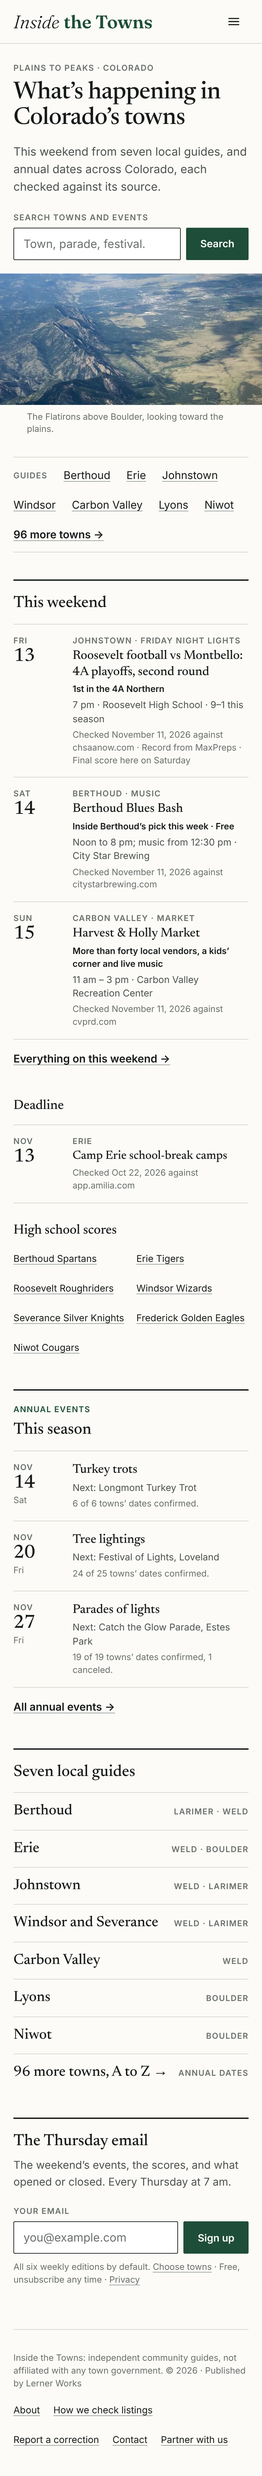
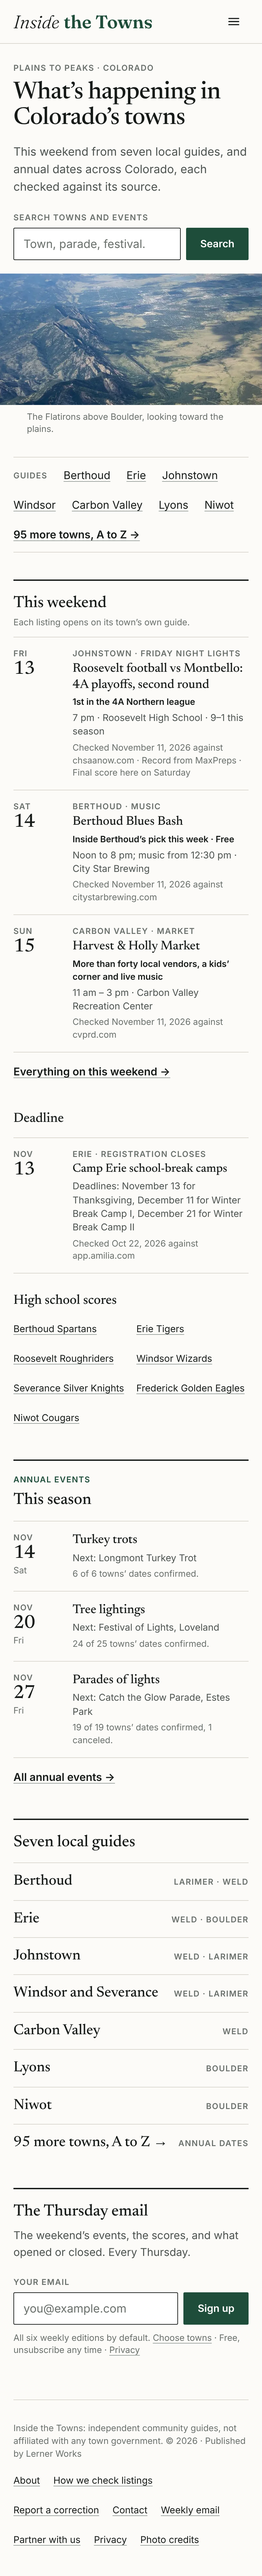
Docs and a clock-proof sports test for the audits' decisions
The decisions on the audits' six open items in DECISIONS.md and the rules
in HOW-IT-WORKS.md; the screenshots retaken. test/sports.test.ts reads the
postseason as of the audit's day: with the real clock it failed once the
volleyball openers had passed (it failed on main too).

Claude-Session: https://claude.ai/code/session_01EAS8nXyC6Dbp69gVZ5SYjU

diff --git a/test/sports.test.ts b/test/sports.test.ts
@@ -1000,7 +1000,10 @@ test('what CHSAA settles is applied over MaxPreps: the volleyball state openers 
   const schoolOf = (town: string) => schoolSportsFor(town, town === 'windsor' ? 'windsor-high' : undefined)!;
   const read = (town: string) => JSON.parse(readFileSync(fileOf(town), 'utf8')) as SportsData;
   const files = Object.fromEntries(['berthoud', 'niwot', 'windsor'].map((town) => [`/${fileOf(town)}`, read(town)]));
-  const volleyball = (town: string) => sportsDataFor(schoolOf(town), files)!.sports.find((t) => t.key === 'volleyball')!;
+  // Read as of the audit (9 November 2026): the postseason rows drop off once their day has passed, so on the
+  // day after the openers this test failed with the real clock (13 November 2026).
+  const asOf = new Date('2026-11-09T12:00:00-07:00');
+  const volleyball = (town: string) => sportsDataFor(schoolOf(town), files, asOf)!.sports.find((t) => t.key === 'volleyball')!;
 
   // MaxPreps had "at Eaton" and "vs Battle Mountain", and Niwot's match with Mead: all three are at
   // the Coliseum. (Golden's "vs Mullen" was the third until its guide was folded on 12 November 2026.)

diff --git a/DECISIONS.md b/DECISIONS.md
@@ -11189,3 +11189,41 @@ request for the owner.
 - **The hero photograph** is cut once to the 2:1 band the page shows
   (`front-range-flatirons-hero.jpg`), so no reader downloads the rest;
   the whole photograph stays the share image.
+
+## The audits' open items, decided, 13 November 2026 (night)
+
+The owner left the six open questions from the four audits to this
+session. Decided and done:
+
+- **The home's title and description** say what the page is: "Colorado
+  events this weekend, town by town | Inside the Towns", and this weekend's
+  events, the seasons now on and the count of other towns. The original
+  brief kept the old ones; the page they described is gone.
+- **One menu across the hub.** The other hub pages take the home's six
+  items and words ("Seasonal dates" is "Annual events", to the list on
+  `/towns/`, which is now headed "Annual events"; About and Contact stay in
+  the footer). The footer's "Editorial policy" and "Sources", two links to
+  one page, are one "How we check listings". The wordmark colour stays as
+  it is: pine is the approved brief's for the home alone, and taking it to
+  the rest of the hub is a recolouring of every hub page, a pass of its own.
+- **"Every Thursday", no hour.** The drafts pull request opens at 5:10 am
+  and the email goes when it is merged; this week's went at 12:49 pm. The
+  guides' forms still say "at 7 am" from `sendTime` in the hub config,
+  which the owner called "a promise to keep"; left for the owner.
+- **The home's footer** adds Weekly email, Privacy and Photo credits.
+- **The deadline** carries the organizer's note where the program has one,
+  as the family hub's card does: Camp Erie's says which camp closes today.
+- **Type in rem**, so a reader's own text size applies; at 200% nothing
+  runs off the page.
+- Also: "N more towns" no longer counts Severance twice (95); the hub's
+  photograph is the Flatirons original, so `/credits/` names what the home
+  shows; every dated town title says "events"; season pages carry a
+  breadcrumb; town and season pages are dated in the sitemap by their
+  records' checks; the Fraunces preload is dropped; a test that read the
+  real clock (`test/sports.test.ts`, the volleyball openers) reads the
+  audit's day.
+- **Not done, on purpose:** `/_astro/` keeps its hour-long cache (the
+  owner's rule after the missed deploy, held by `test/cache-headers.test.ts`);
+  town pages keep the town's name alone as their heading (the title carries
+  the search words); the signup keeps the browser's own check of an email
+  address, which is accessible, rather than a new script in the shared form.

diff --git a/HOW-IT-WORKS.md b/HOW-IT-WORKS.md
@@ -339,10 +339,23 @@ image. The rules are `src/lib/hub-home.ts`:
   that still have a date to come, soonest first, each with its count by
   town and next date. The year-round pages are on `/towns/` ("All annual
   events").
+- **Words that hold:** the title and description say what the page is
+  ("Colorado events this weekend, town by town"); "N more towns" counts
+  town pages no guide covers; the email is "every Thursday", no hour (the
+  send is the owner's merge of the drafts pull request); a deadline shows
+  the organizer's own note where the guide's card does.
 - Each row's check line is in its guide page's words. Dated rows leave the
   page once past, and an emptied block goes with them. The sections' links
   carry `data-track` (`home-weekend`, `home-season`, `home-deadline`,
   `home-scores`, `home-guides`, `home-index`), counted by TrackClicks.
+
+**The hub's other pages** share the home's menu (This weekend, Annual
+events, Towns, Moving here, Newsletter, How we check; `src/lib/nav.ts`,
+`hubNav`, "Annual events" going to the list on `/towns/`) and call the
+editorial page "How we check listings" in the footer. Their share image is
+the same Flatirons photograph. In the sitemap a town page and a season page
+are dated by the newest check of the records they show
+(`src/lib/lastmod.ts`), and every dated town page title says "events".
 
 **Visual rules** (the ten from the 26 October pass, still in force):
 
